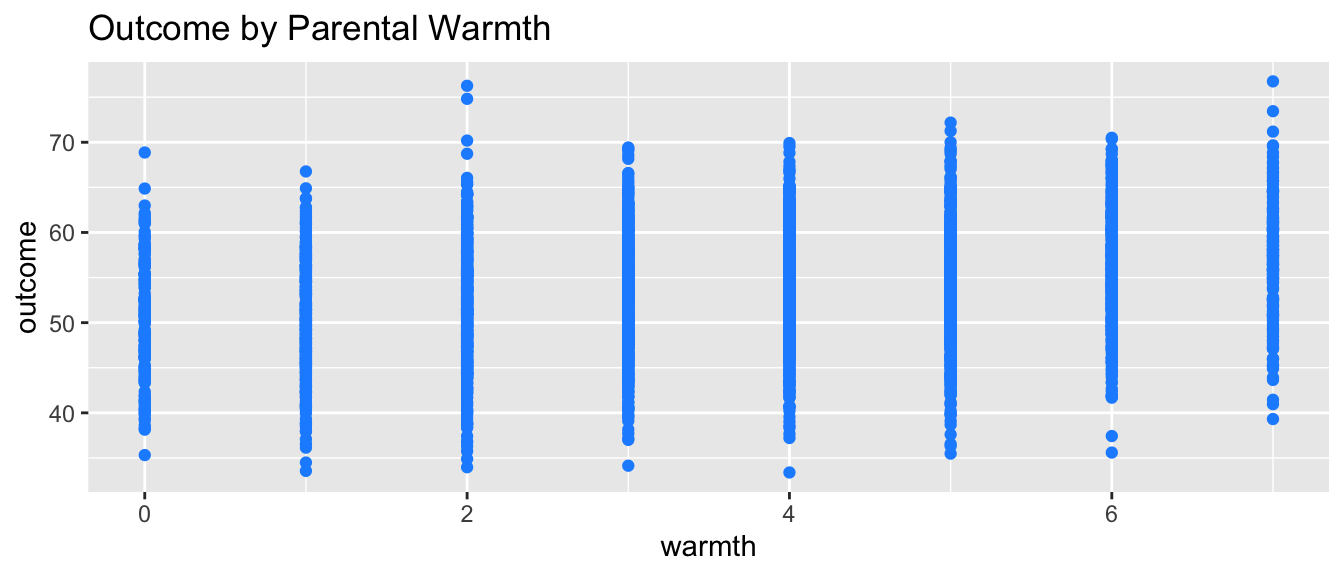
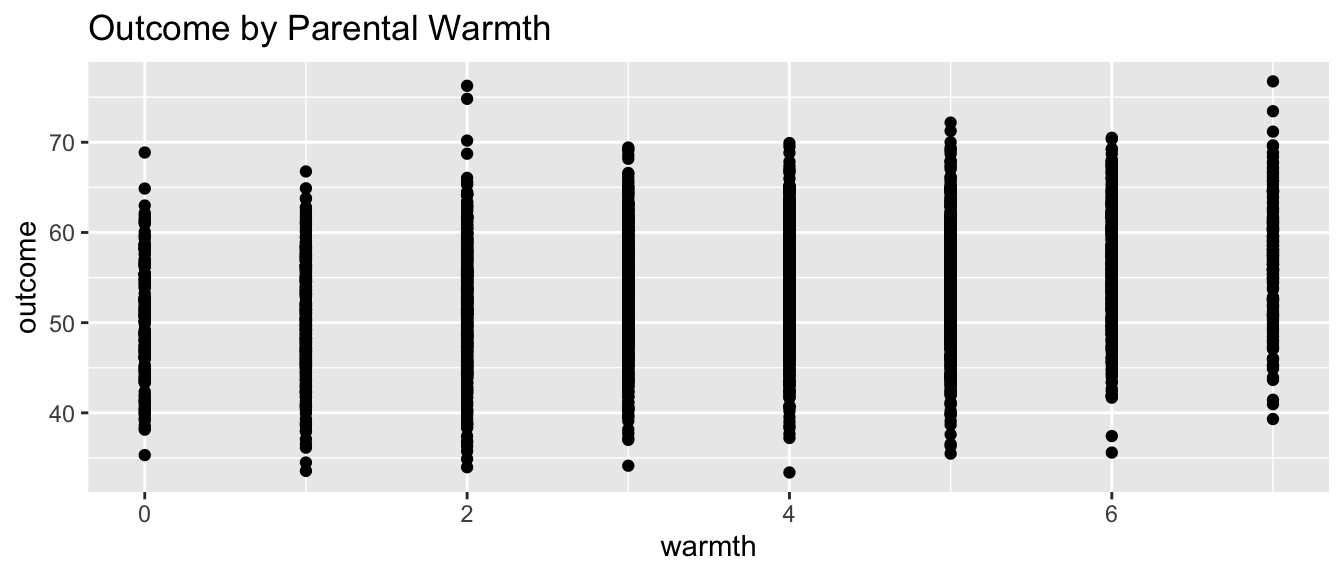
set fig-height; change to minimalist graphing syntax

diff --git a/multilevel-multilingual.html b/multilevel-multilingual.html
@@ -455,7 +455,7 @@ Note: LR test is conservative and provided only for reference.</code></pre>
 <span id="cb18-3"><a href="#cb18-3" aria-hidden="true" tabindex="-1"></a><span class="fu">ggplot</span>(df,</span>
 <span id="cb18-4"><a href="#cb18-4" aria-hidden="true" tabindex="-1"></a>       <span class="fu">aes</span>(<span class="at">x =</span> warmth,</span>
 <span id="cb18-5"><a href="#cb18-5" aria-hidden="true" tabindex="-1"></a>           <span class="at">y =</span> outcome)) <span class="sc">+</span></span>
-<span id="cb18-6"><a href="#cb18-6" aria-hidden="true" tabindex="-1"></a>  <span class="fu">geom_point</span>(<span class="at">color =</span> <span class="st">"dodgerblue"</span>) <span class="sc">+</span></span>
+<span id="cb18-6"><a href="#cb18-6" aria-hidden="true" tabindex="-1"></a>  <span class="fu">geom_point</span>() <span class="sc">+</span></span>
 <span id="cb18-7"><a href="#cb18-7" aria-hidden="true" tabindex="-1"></a>  <span class="fu">labs</span>(<span class="at">title =</span> <span class="st">"Outcome by Parental Warmth"</span>)</span></code><button title="Copy to Clipboard" class="code-copy-button"><i class="bi"></i></button></pre></div>
 <div class="cell-output-display">
 <p><img src="multilevel-multilingual_files/figure-html/unnamed-chunk-12-1.png" class="img-fluid" width="672"></p>
